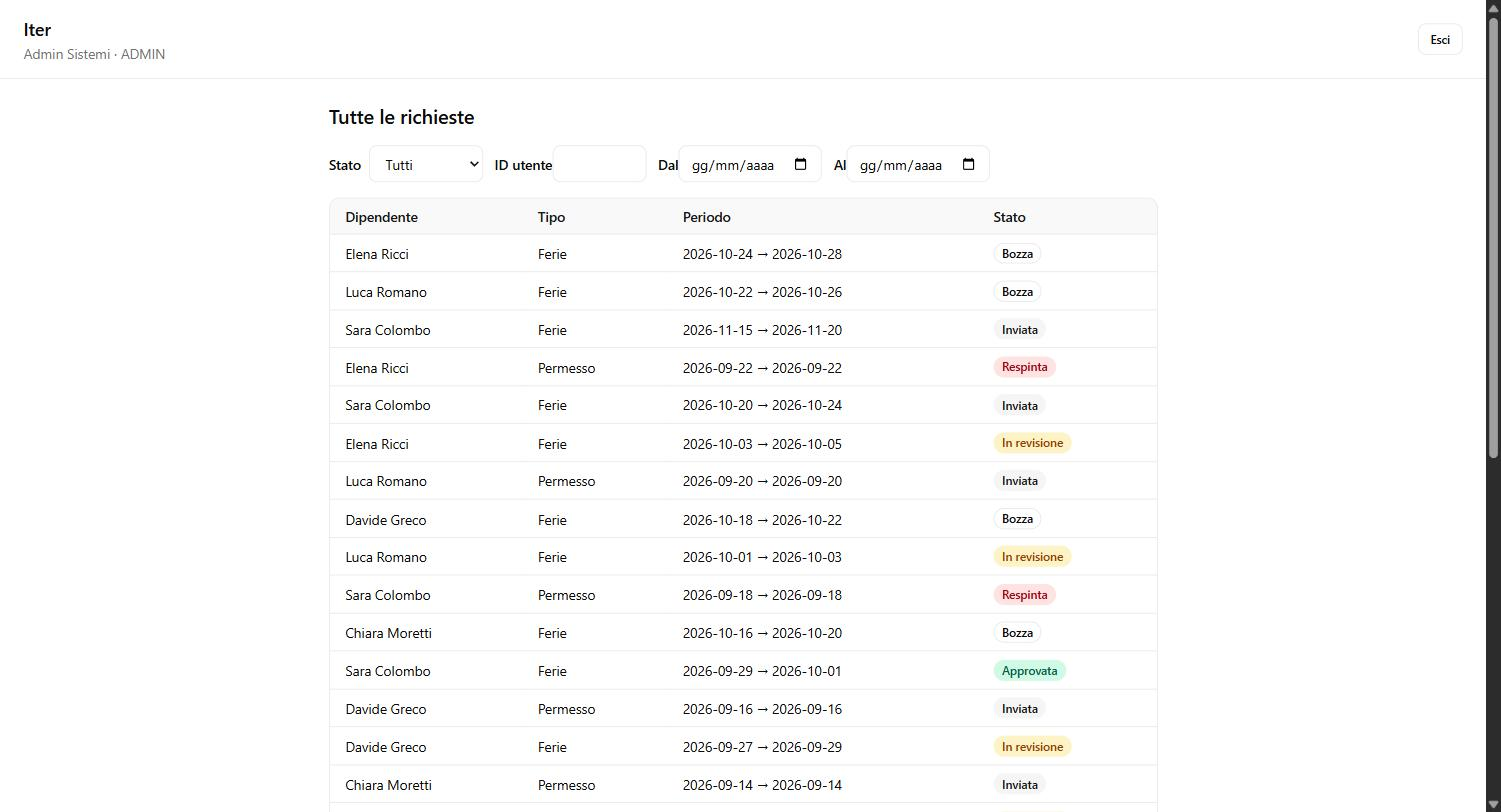
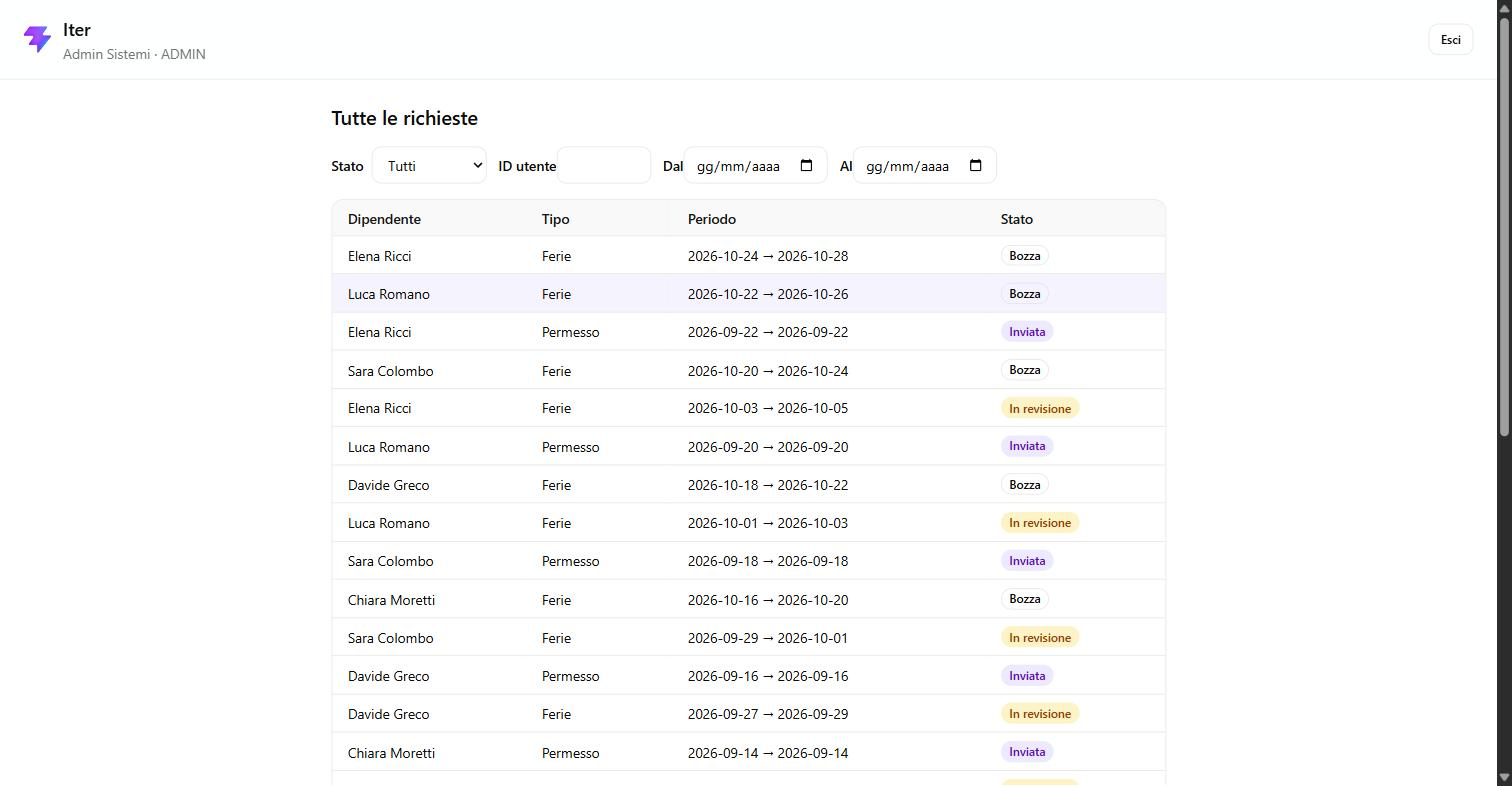
Tidy up the README now that the app is deployed
Link the live demo up top, refresh the admin screenshot (it still
showed the old grayscale theme), and rewrite the deploy section as a
description of the current setup instead of a how-to.

diff --git a/README.md b/README.md
@@ -4,6 +4,8 @@
 
 Gestionale di richieste di ferie e permessi con workflow di approvazione a tre ruoli (dipendente, responsabile, admin). Ogni richiesta segue una macchina a stati validata lato server, e ogni cambio di stato resta scritto in un registro eventi immutabile.
 
+**[Demo live](https://iter-dodoshell.vercel.app)** — utenti demo più sotto.
+
 ![Vista admin](docs/screenshots/admin-lista.jpg)
 
 ## Indice
@@ -58,14 +60,11 @@ Password per tutti: **`Password123!`**
 
 ## Deploy
 
-Il progetto è online:
+- **Frontend:** https://iter-dodoshell.vercel.app — su [Vercel](https://vercel.com), root directory `frontend/`, deploy automatico a ogni push su `main`. Variabile d'ambiente `VITE_API_BASE_URL` puntata all'URL pubblico del backend.
+- **Backend:** https://backend-production-12f4.up.railway.app/api — su [Railway](https://railway.app), root directory `backend/`, deploy automatico a ogni push su `main`.
+- **Database:** Postgres 16, servizio separato nello stesso progetto Railway del backend.
 
-- Frontend: https://iter-dodoshell.vercel.app
-- Backend: https://backend-production-12f4.up.railway.app/api
-
-**Frontend su [Vercel](https://vercel.com):** repo collegato con root directory `frontend/`, deploy automatico a ogni push su `main`. Variabile d'ambiente `VITE_API_BASE_URL` puntata all'URL pubblico del backend.
-
-**Backend + database su [Railway](https://railway.app):** un servizio per il backend (root directory `backend/`, deploy automatico da GitHub) e uno per Postgres 16, con queste variabili d'ambiente sul servizio backend:
+Variabili d'ambiente del servizio backend:
 
 ```
 DB_HOST=<host interno del database>
